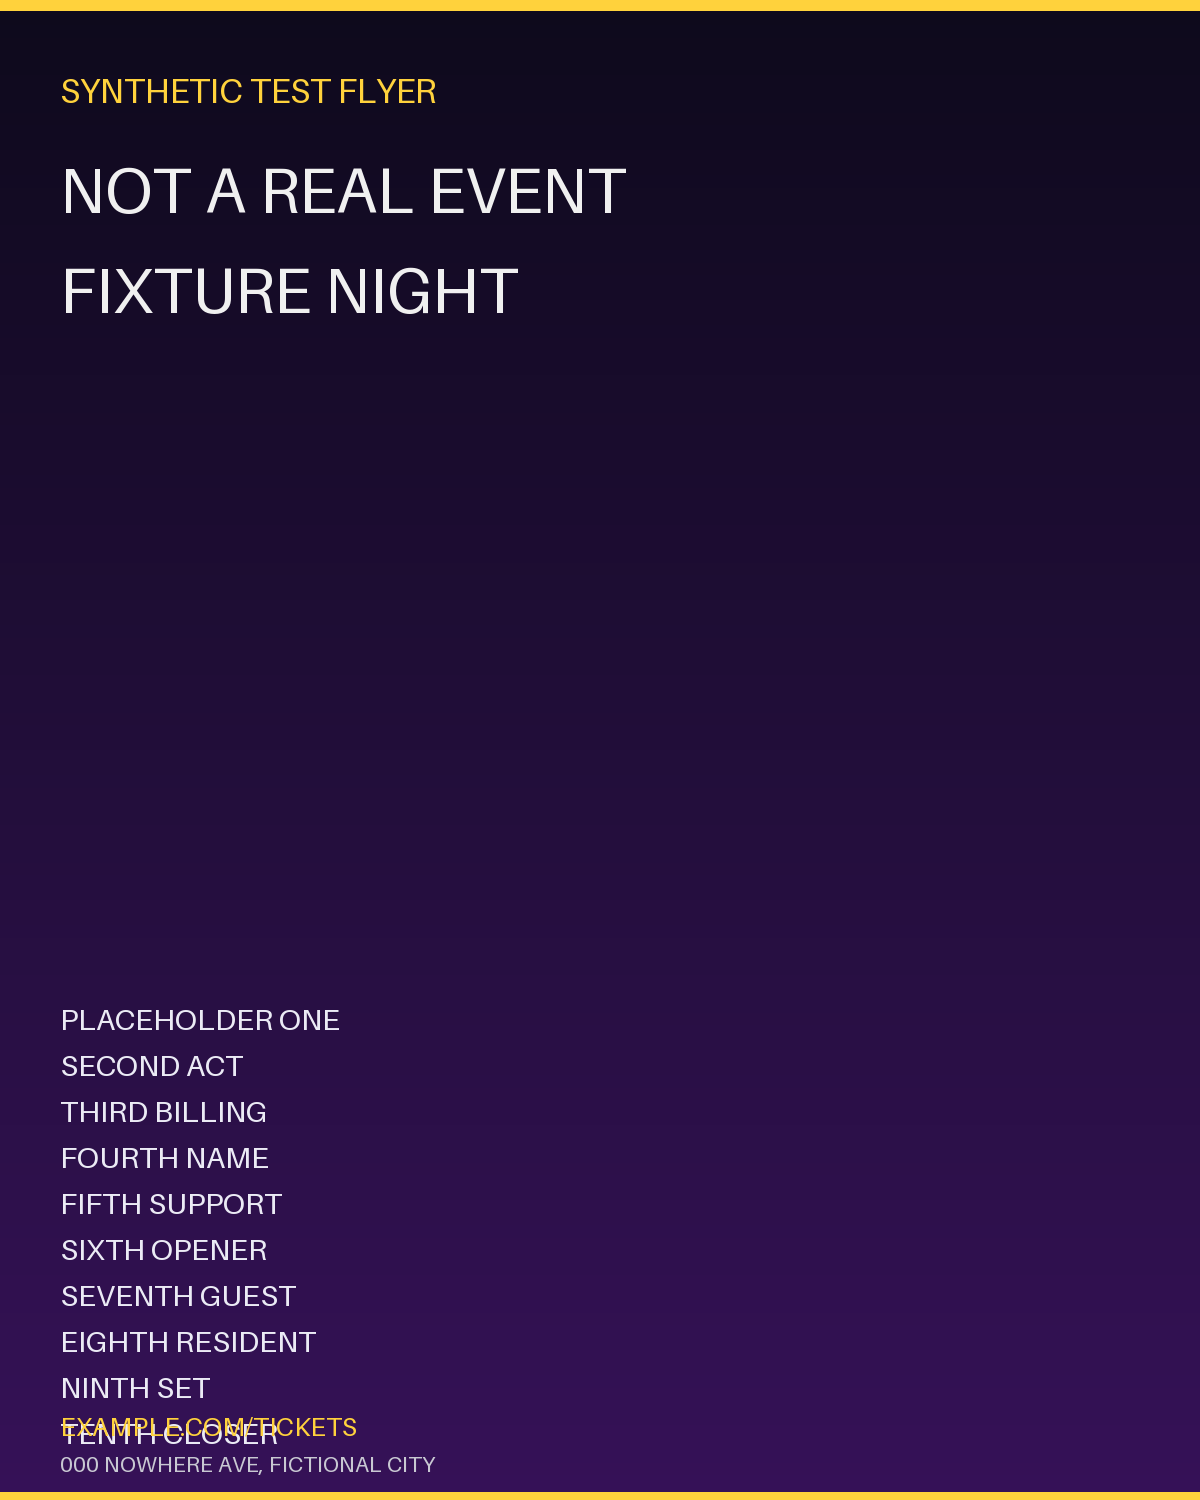
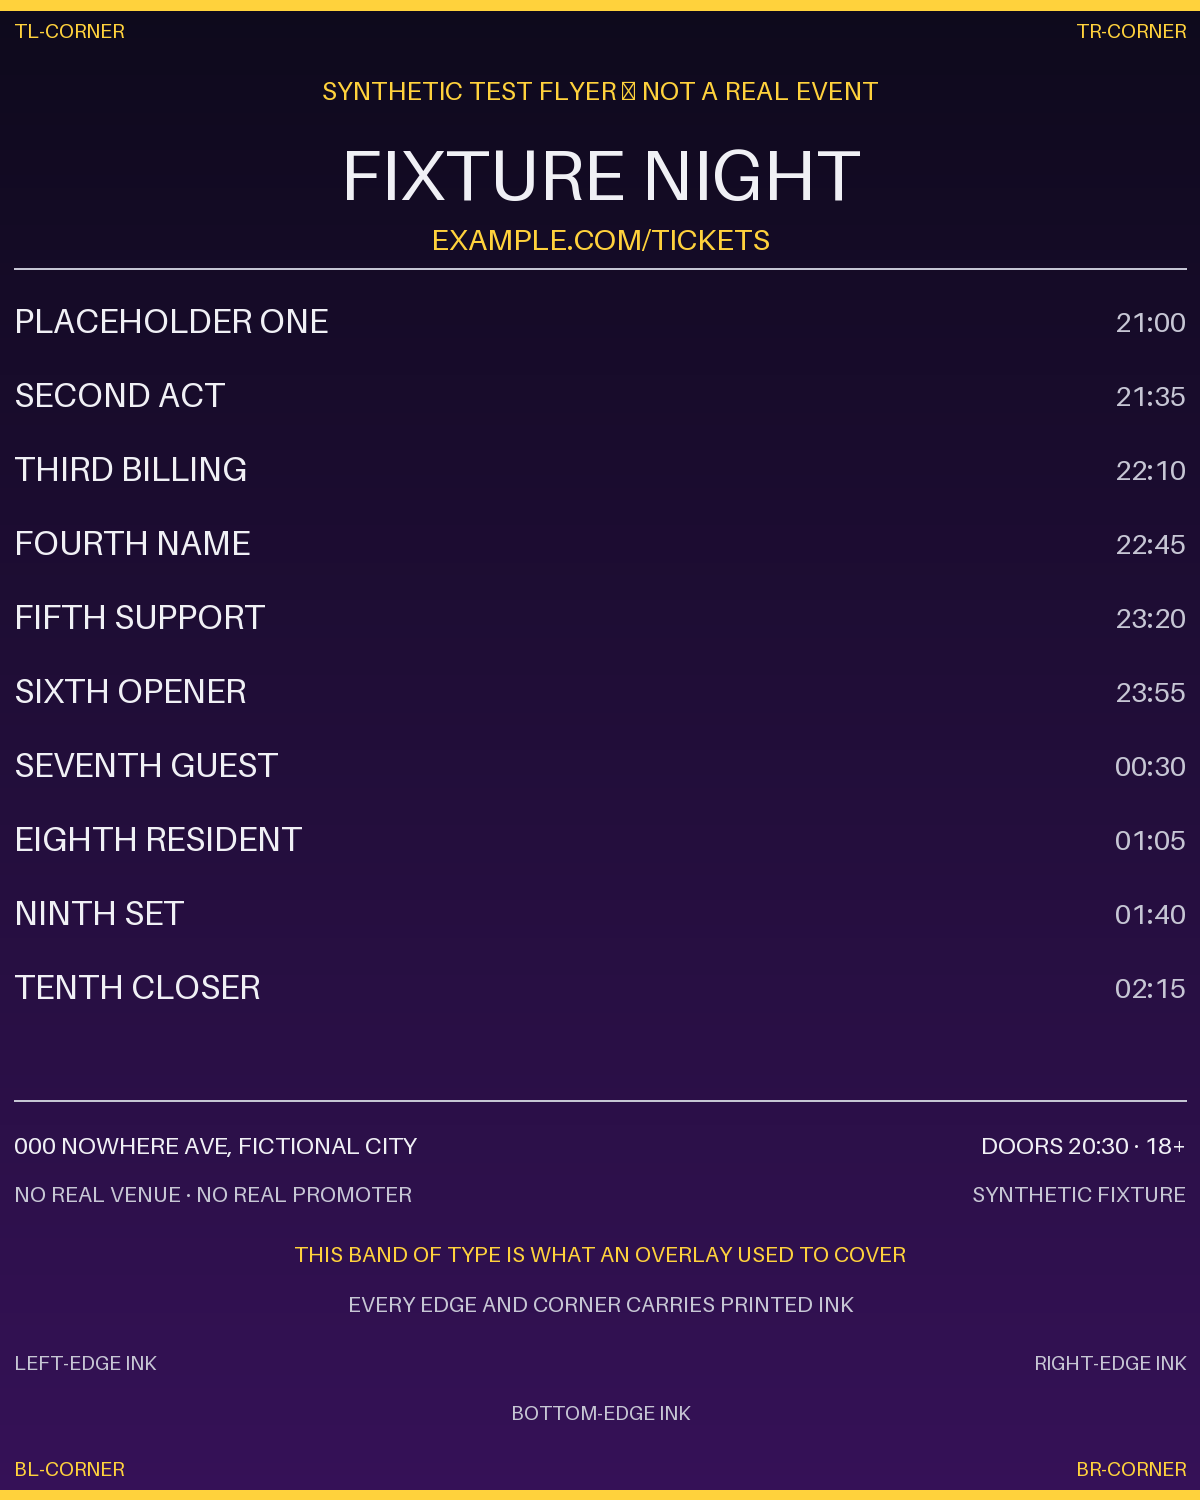
fix(dev): the flyer fixture overprinted itself, and had no ink where the test needed ink
E reviewed the fixtures at 1e4d47d6 and found two defects in flyer-dense-4x5.png.
Both are real, and the first is arithmetic rather than opinion.

1. IT OVERPRINTED ITSELF. The generator drew ten lineup rows ending at y=1414 and
   then drew "EXAMPLE.COM/TICKETS" at y=1410 — the two strings landed on top of
   each other. A fixture whose own type collides cannot be used to judge whether
   OUR type collides with it.

2. IT WAS NOT DENSE TO THE EDGES. Every string was left-aligned at x=60, so the
   right edge and all four corners carried no printed ink at all. The rect-vs-rect
   overlap measurement still discriminated, but the VISUAL the owner's ruling is
   about — "no app text or badges over the poster's printed content" — could have
   been satisfied by an app element sitting in an empty corner. The fixture was
   agreeing with us for the wrong reason.

Regenerated with a name hard against the left margin and a time hard against the
right margin on every lineup row, centred title and footer bands, and a named
word in each of the four corners within 14px of both edges — so a lost corner is
a lost WORD, not a missing decoration. The footer clears the last row by 120px,
and the generator asserts that clearance rather than trusting the layout.

Measured on the file, not the generator:
  ink near top edge 0.294, bottom 0.272, left 0.059, right 0.056
  ink in all four corner boxes: 0.199-0.214, every one non-empty
  the old collision band y=1380..1440 now holds ONE line-run
[…]

diff --git a/tests/v3-bundled-fixtures.test.ts b/tests/v3-bundled-fixtures.test.ts
@@ -26,7 +26,7 @@ import { describe, expect, it } from 'vitest';
 import { readdirSync, readFileSync, statSync } from 'node:fs';
 import { join, resolve } from 'node:path';
 
-import { DEV_POSTER_NAMES } from '../src/lib/media/devPosters';
+import { DEV_POSTER_NAMES, devPosterModule } from '../src/lib/media/devPosters';
 import { ADDITIONAL_TRUSTED_MEDIA_HOSTS, isTrustedMediaUrl } from '../src/lib/media/url';
 
 const root = resolve(__dirname, '..');
@@ -48,16 +48,41 @@ function sourceFiles(): string[] {
 }
 
 describe('the bundled posters are a dev-only affordance', () => {
-  it('BF1: the resolver consults them only under __DEV__', () => {
+  it('BF1: the lookup returns null when __DEV__ is not set — and the GATE is why', () => {
+    /*
+     * The assertion E asked for, behavioural rather than a source pin. A release bundle has
+     * `__DEV__ === false`; this suite runs with it undefined, and both take the same branch.
+     */
+    for (const name of DEV_POSTER_NAMES) {
+      expect(devPosterModule(`dev-bundled:${name}`), name).toBeNull();
+    }
+    // And a non-marker value is null for its own reason, in both worlds.
+    expect(devPosterModule('uuid/covers/1715000000000.jpg')).toBeNull();
+    expect(devPosterModule(null)).toBeNull();
+
+    /*
+     * POSITIVE CONTROL, because a null that is always null proves nothing about the gate. With the
+     * gate opened, control flow reaches the `require` and the behaviour DIFFERS — under vitest it
+     * throws, because vitest cannot transform a PNG (Metro can, which is why the app is fine). The
+     * throw is an artefact of this environment; what it establishes is that the gate, and not some
+     * unrelated early return, is what produced the nulls above.
+     */
+    const g = globalThis as Record<string, unknown>;
+    try {
+      g.__DEV__ = true;
+      expect(() => devPosterModule('dev-bundled:markers-4x5')).toThrow();
+    } finally {
+      delete g.__DEV__;
+    }
+    // Back to the closed gate, so the difference is the flag and nothing else.
+    expect(devPosterModule('dev-bundled:markers-4x5')).toBeNull();
+
+    // The gate is also FIRST in the source, so a later edit cannot read the value before checking.
     const src = read('src/lib/media/devPosters.ts');
-    // The gate is the FIRST thing the lookup does, before it even inspects the value.
     expect(src).toMatch(/if \(typeof __DEV__ === 'undefined' \|\| !__DEV__\) return null;/);
     const fn = src.slice(src.indexOf('export function devPosterModule'));
     expect(src).toContain('export function devPosterModule');
-    const gateAt = fn.indexOf('__DEV__');
-    const prefixAt = fn.indexOf('DEV_POSTER_PREFIX');
-    expect(gateAt).toBeGreaterThan(-1);
-    expect(gateAt).toBeLessThan(prefixAt);
+    expect(fn.indexOf('__DEV__')).toBeLessThan(fn.indexOf('DEV_POSTER_PREFIX'));
   });
 
   it('BF2: no screen outside app/_dev mentions the bundled mechanism', () => {
